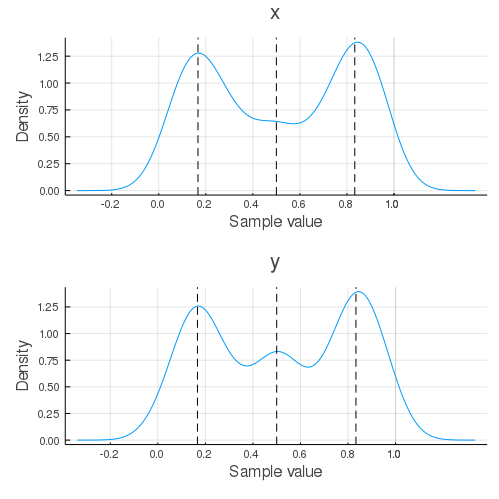
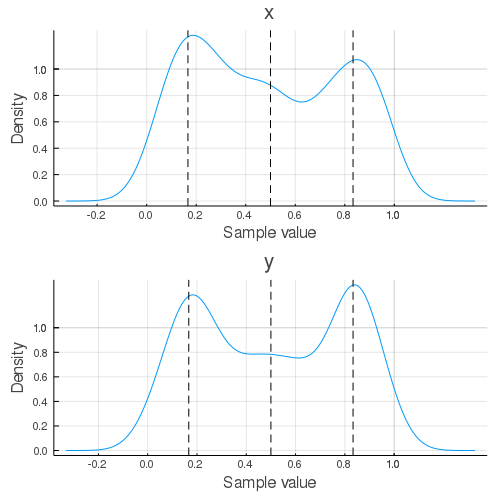
update docs

diff --git a/README.md b/README.md
@@ -27,6 +27,26 @@ julia> ]add NestedSamplers
 
 The samplers are built using the [AbstractMCMC](https://github.com/turinglang/abstractmcmc.jl) interface. To use it, we need to create a `NestedModel`.
 
+````
+Random.MersenneTwister(UInt32[0x00002104], Random.DSFMT.DSFMT_state(Int32[5
+91935143, 1073357858, -361820617, 1073220970, -1971246584, 1073565566, 1629
+8316, 1073393977, -1678036174, 1073389588  …  -1917715856, 1073424165, -133
+0323738, 1073182020, -1092636575, -378856408, 727605189, -429728727, 382, 0
+]), [0.0, 0.0, 0.0, 0.0, 0.0, 0.0, 0.0, 0.0, 0.0, 0.0  …  0.0, 0.0, 0.0, 0.
+0, 0.0, 0.0, 0.0, 0.0, 0.0, 0.0], UInt128[0x0000000000000000000000000000000
+0, 0x00000000000000000000000000000000, 0x00000000000000000000000000000000, 
+0x00000000000000000000000000000000, 0x00000000000000000000000000000000, 0x0
+0000000000000000000000000000000, 0x00000000000000000000000000000000, 0x0000
+0000000000000000000000000000, 0x00000000000000000000000000000000, 0x0000000
+0000000000000000000000000  …  0x00000000000000000000000000000000, 0x0000000
+0000000000000000000000000, 0x00000000000000000000000000000000, 0x0000000000
+0000000000000000000000, 0x00000000000000000000000000000000, 0x0000000000000
+0000000000000000000, 0x00000000000000000000000000000000, 0x0000000000000000
+0000000000000000, 0x00000000000000000000000000000000, 0x0000000000000000000
+0000000000000], 1002, 0)
+````
+
+
 
 ````julia
 using NestedSamplers
@@ -71,13 +91,13 @@ chain = sample(model, spl;
 
 
 ````
-Object of type Chains, with data of type 360×3×1 Array{Float64,3}
+Object of type Chains, with data of type 355×3×1 Array{Float64,3}
 
-Log evidence      = 2.076126127231367
-Iterations        = 1:360
+Log evidence      = 2.1263825977537327
+Iterations        = 1:355
 Thinning interval = 1
 Chains            = 1
-Samples per chain = 360
+Samples per chain = 355
 internals         = weights
 parameters        = x, y
 
@@ -86,14 +106,14 @@ parameters        = x, y
 Summary Statistics
   parameters    mean     std  naive_se    mcse       ess   r_hat
   ──────────  ──────  ──────  ────────  ──────  ────────  ──────
-           x  0.5154  0.3133    0.0165  0.0151  419.8884  0.9979
-           y  0.5211  0.3070    0.0162  0.0088  405.3305  1.0002
+           x  0.4698  0.2975    0.0158  0.0075  360.7143  1.0063
+           y  0.4959  0.3004    0.0159  0.0095  278.1535  0.9996
 
 Quantiles
   parameters    2.5%   25.0%   50.0%   75.0%   97.5%
   ──────────  ──────  ──────  ──────  ──────  ──────
-           x  0.0511  0.1998  0.5155  0.8162  0.9609
-           y  0.0438  0.2037  0.5227  0.8235  0.9737
+           x  0.0329  0.1975  0.4486  0.7500  0.9656
+           y  0.0494  0.1976  0.4831  0.8145  0.9608
 ````
 
 
@@ -107,7 +127,7 @@ vline!([1/2 - π/tmax, 1/2, 1/2 + π/tmax], c=:black, ls=:dash, subplot=2)
 ````
 
 
-![](docs/figures/README_4_1.png)
+![](docs/figures/README_5_1.png)
 
 
 
@@ -152,7 +172,7 @@ Static nested sampler with `nactive` active points and `ndims` parameters.
   * `10 ≤ ndims ≤ 20` - [`Proposals.RWalk`](@ref)
   * `ndims > 20` - [`Proposals.RSlice`](@ref)
 
-The original nested sampling algorithm is roughly equivalent to using `Bounds.Ellipsoid` with `Proposals.Uniform`. The MultiNest algorithm is roughly equivalent to `Bounds.MultiEllipsoid` with `Proposals.Uniform`.
+The original nested sampling algorithm is roughly equivalent to using `Bounds.Ellipsoid` with `Proposals.Uniform`. The MultiNest algorithm is roughly equivalent to `Bounds.MultiEllipsoid` with `Proposals.Uniform`. The PolyChord algorithm is roughly equivalent to using `Proposals.RSlice`.
 
 ## Other Parameters
 
@@ -160,8 +180,8 @@ The original nested sampling algorithm is roughly equivalent to using `Bounds.El
   * `update_interval` - How often to refit the live points with the bounds as a fraction of `nactive`. By default this will be determined using `default_update_interval` for the given proposal
 
       * `Proposals.Uniform` - `1.5`
-      * `Proposals.RWalk` and `Proposals.RStagger` - `0.15walks`
-      * `Proposals.RSlice` - `2.0 * slices`
+      * `Proposals.RWalk` and `Proposals.RStagger` - `0.15 * walks`
+      * `Proposals.RSlice` - `2 * slices`
   * `min_ncall` - The minimum number of iterations before trying to fit the first bound
   * `min_eff` - The maximum efficiency before trying to fit the first bound
 
